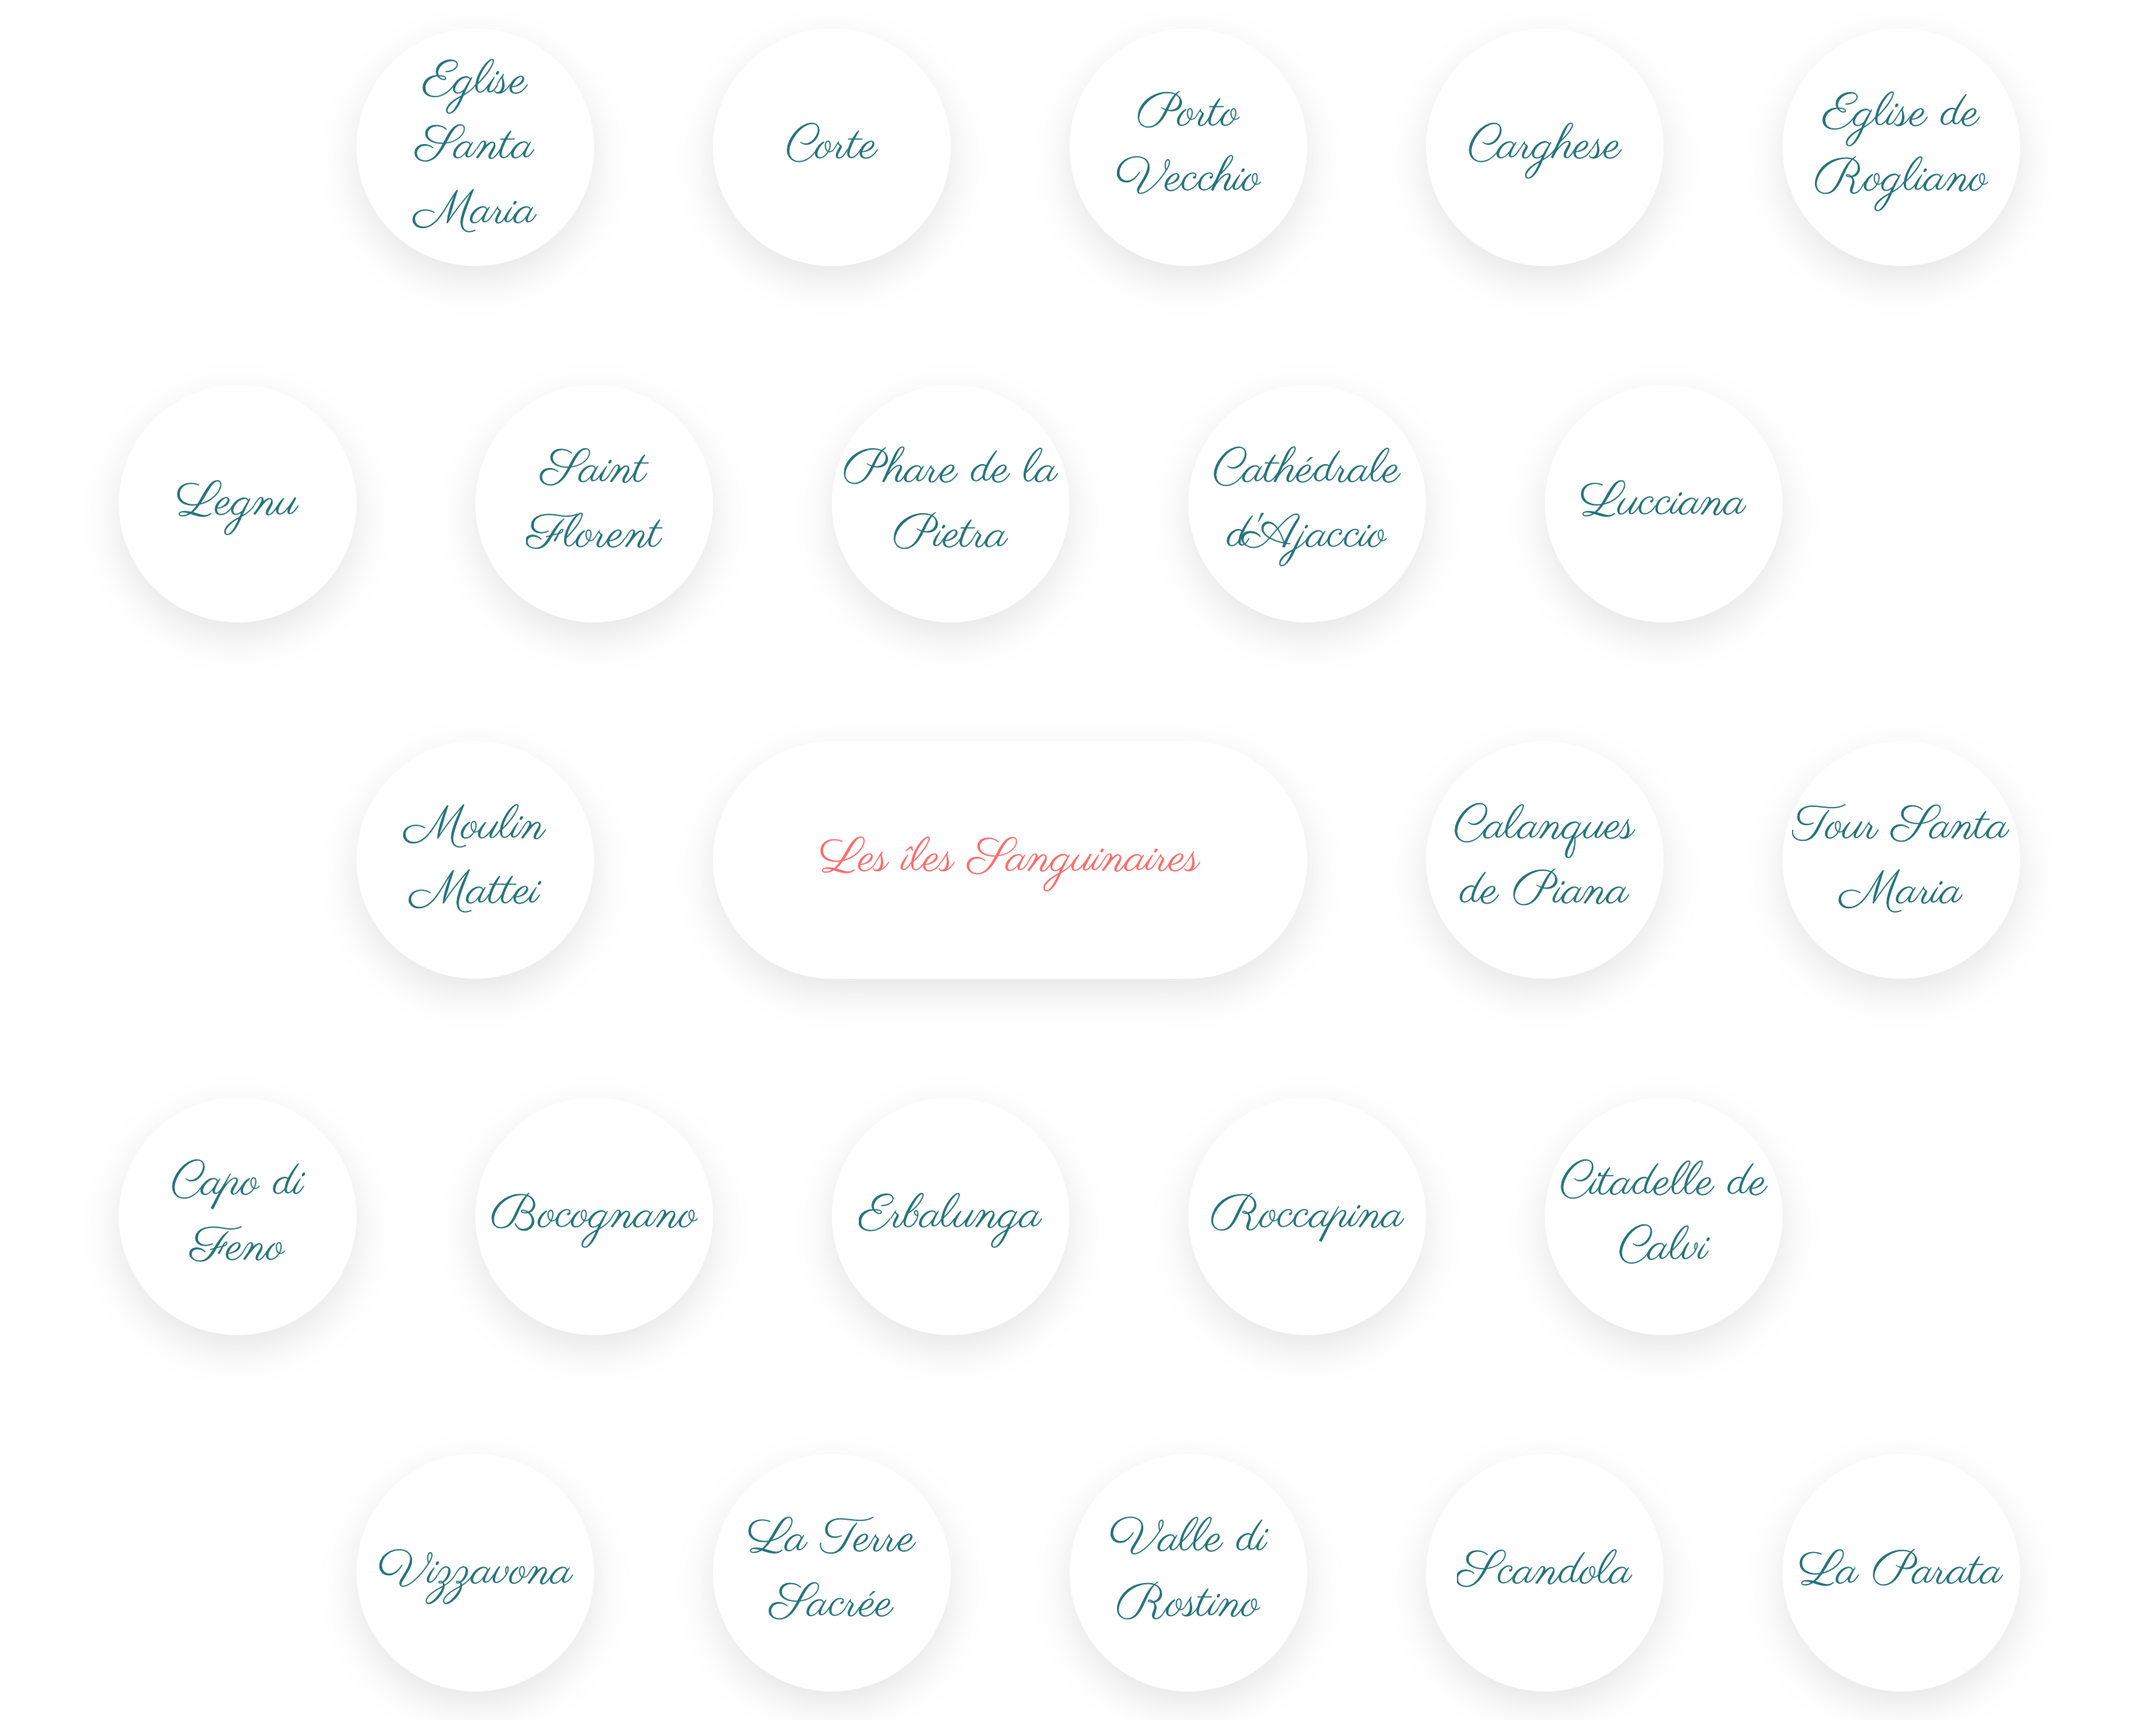
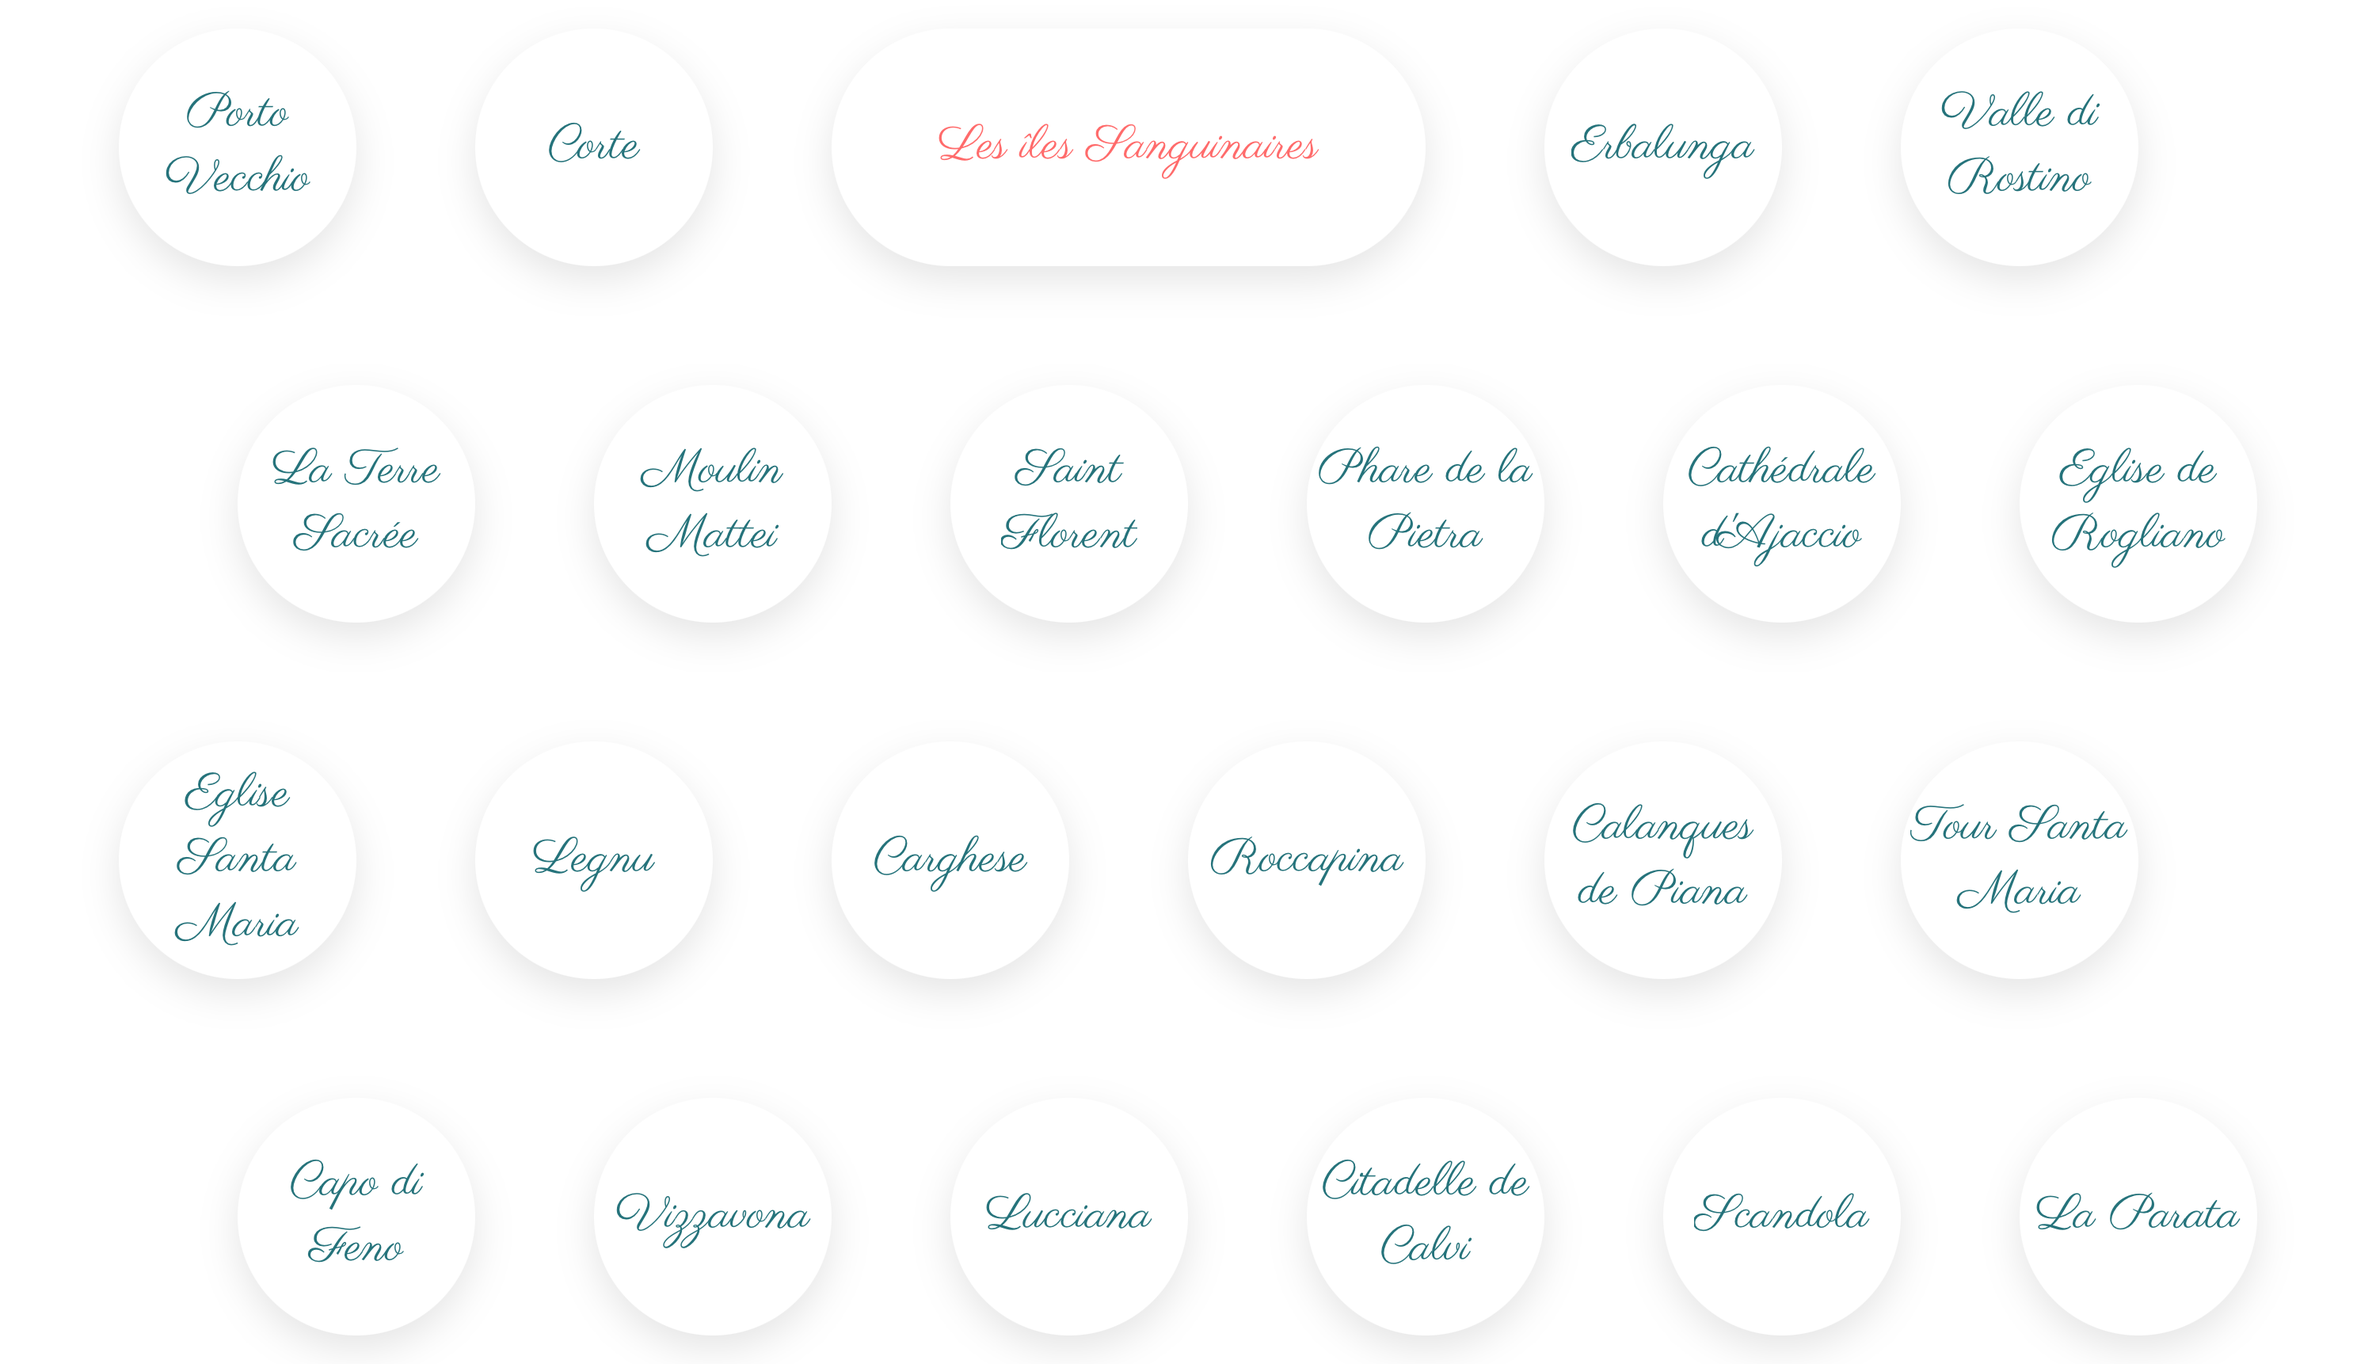
feat: update

diff --git a/src/table.ts b/src/table.ts
@@ -9,9 +9,20 @@ import carghese from "../public/carghese.jpeg";
 import vizzavona from "../public/vizzavona.jpeg";
 import mattei from "../public/mattei.jpeg";
 import terre_sacree from "../public/terre_sacree.jpeg";
+import saint_florent from "../public/saint_florent.jpeg";
+import corte from "../public/corte.jpeg";
+import bonifacio from "../public/bonifacio.jpeg";
+import calvi from "../public/calvi.jpeg";
+import rogliano from "../public/rogliano.jpeg";
+import valle_di_rostino from "../public/valle_di_rostino.webp";
+import piana from "../public/piana.jpeg";
+import porto_vecchio from "../public/porto_vecchio.jpeg";
+import pietra from "../public/pietra.jpeg";
+import cathedrale from "../public/cathedrale.jpeg";
+import eglise_santa_maria from "../public/eglise_santa_maria.webp";
 
 export const tables = [
-  { tableId: 1, tableName: "Saint-Florent", image: roccapina },
+  { tableId: 1, tableName: "Saint-Florent", image: saint_florent },
   {
     tableId: 2,
     tableName: "Legnu",
@@ -46,28 +57,28 @@ export const tables = [
   {
     tableId: 8,
     tableName: "Eglise de Rogliano",
-    image: roccapina,
+    image: rogliano,
     description: "Joli village sur les hauteurs du Cap-Corse.",
   },
-  { tableId: 9, tableName: "Eglise Santa Maria", image: roccapina },
+  { tableId: 9, tableName: "Eglise Santa Maria", image: eglise_santa_maria },
   {
     tableId: 10,
     tableName: "Corte",
-    image: roccapina,
+    image: corte,
     description: "Ville dans les montagnes du centre de la Corse",
   },
-  { tableId: 11, tableName: "Lucciana", image: roccapina },
+  { tableId: 11, tableName: "Bonifacio", image: bonifacio },
   {
     tableId: 12,
     tableName: "Valle di Rostino",
-    image: roccapina,
+    image: valle_di_rostino,
     description: "Village familiale de la famille Caporossi.",
   },
-  { tableId: 13, tableName: "Citadelle de Calvi", image: roccapina },
-  { tableId: 14, tableName: "Cathédrale d'Ajaccio", image: roccapina },
-  { tableId: 15, tableName: "Phare de la Pietra", image: roccapina },
-  { tableId: 16, tableName: "Calanques de Piana", image: roccapina },
-  { tableId: 17, tableName: "Porto-Vecchio", image: roccapina },
+  { tableId: 13, tableName: "Citadelle de Calvi", image: calvi },
+  { tableId: 14, tableName: "Cathédrale d'Ajaccio", image: cathedrale },
+  { tableId: 15, tableName: "Phare de la Pietra", image: pietra },
+  { tableId: 16, tableName: "Calanques de Piana", image: piana },
+  { tableId: 17, tableName: "Porto-Vecchio", image: porto_vecchio },
   {
     tableId: 18,
     tableName: "Scandola",
